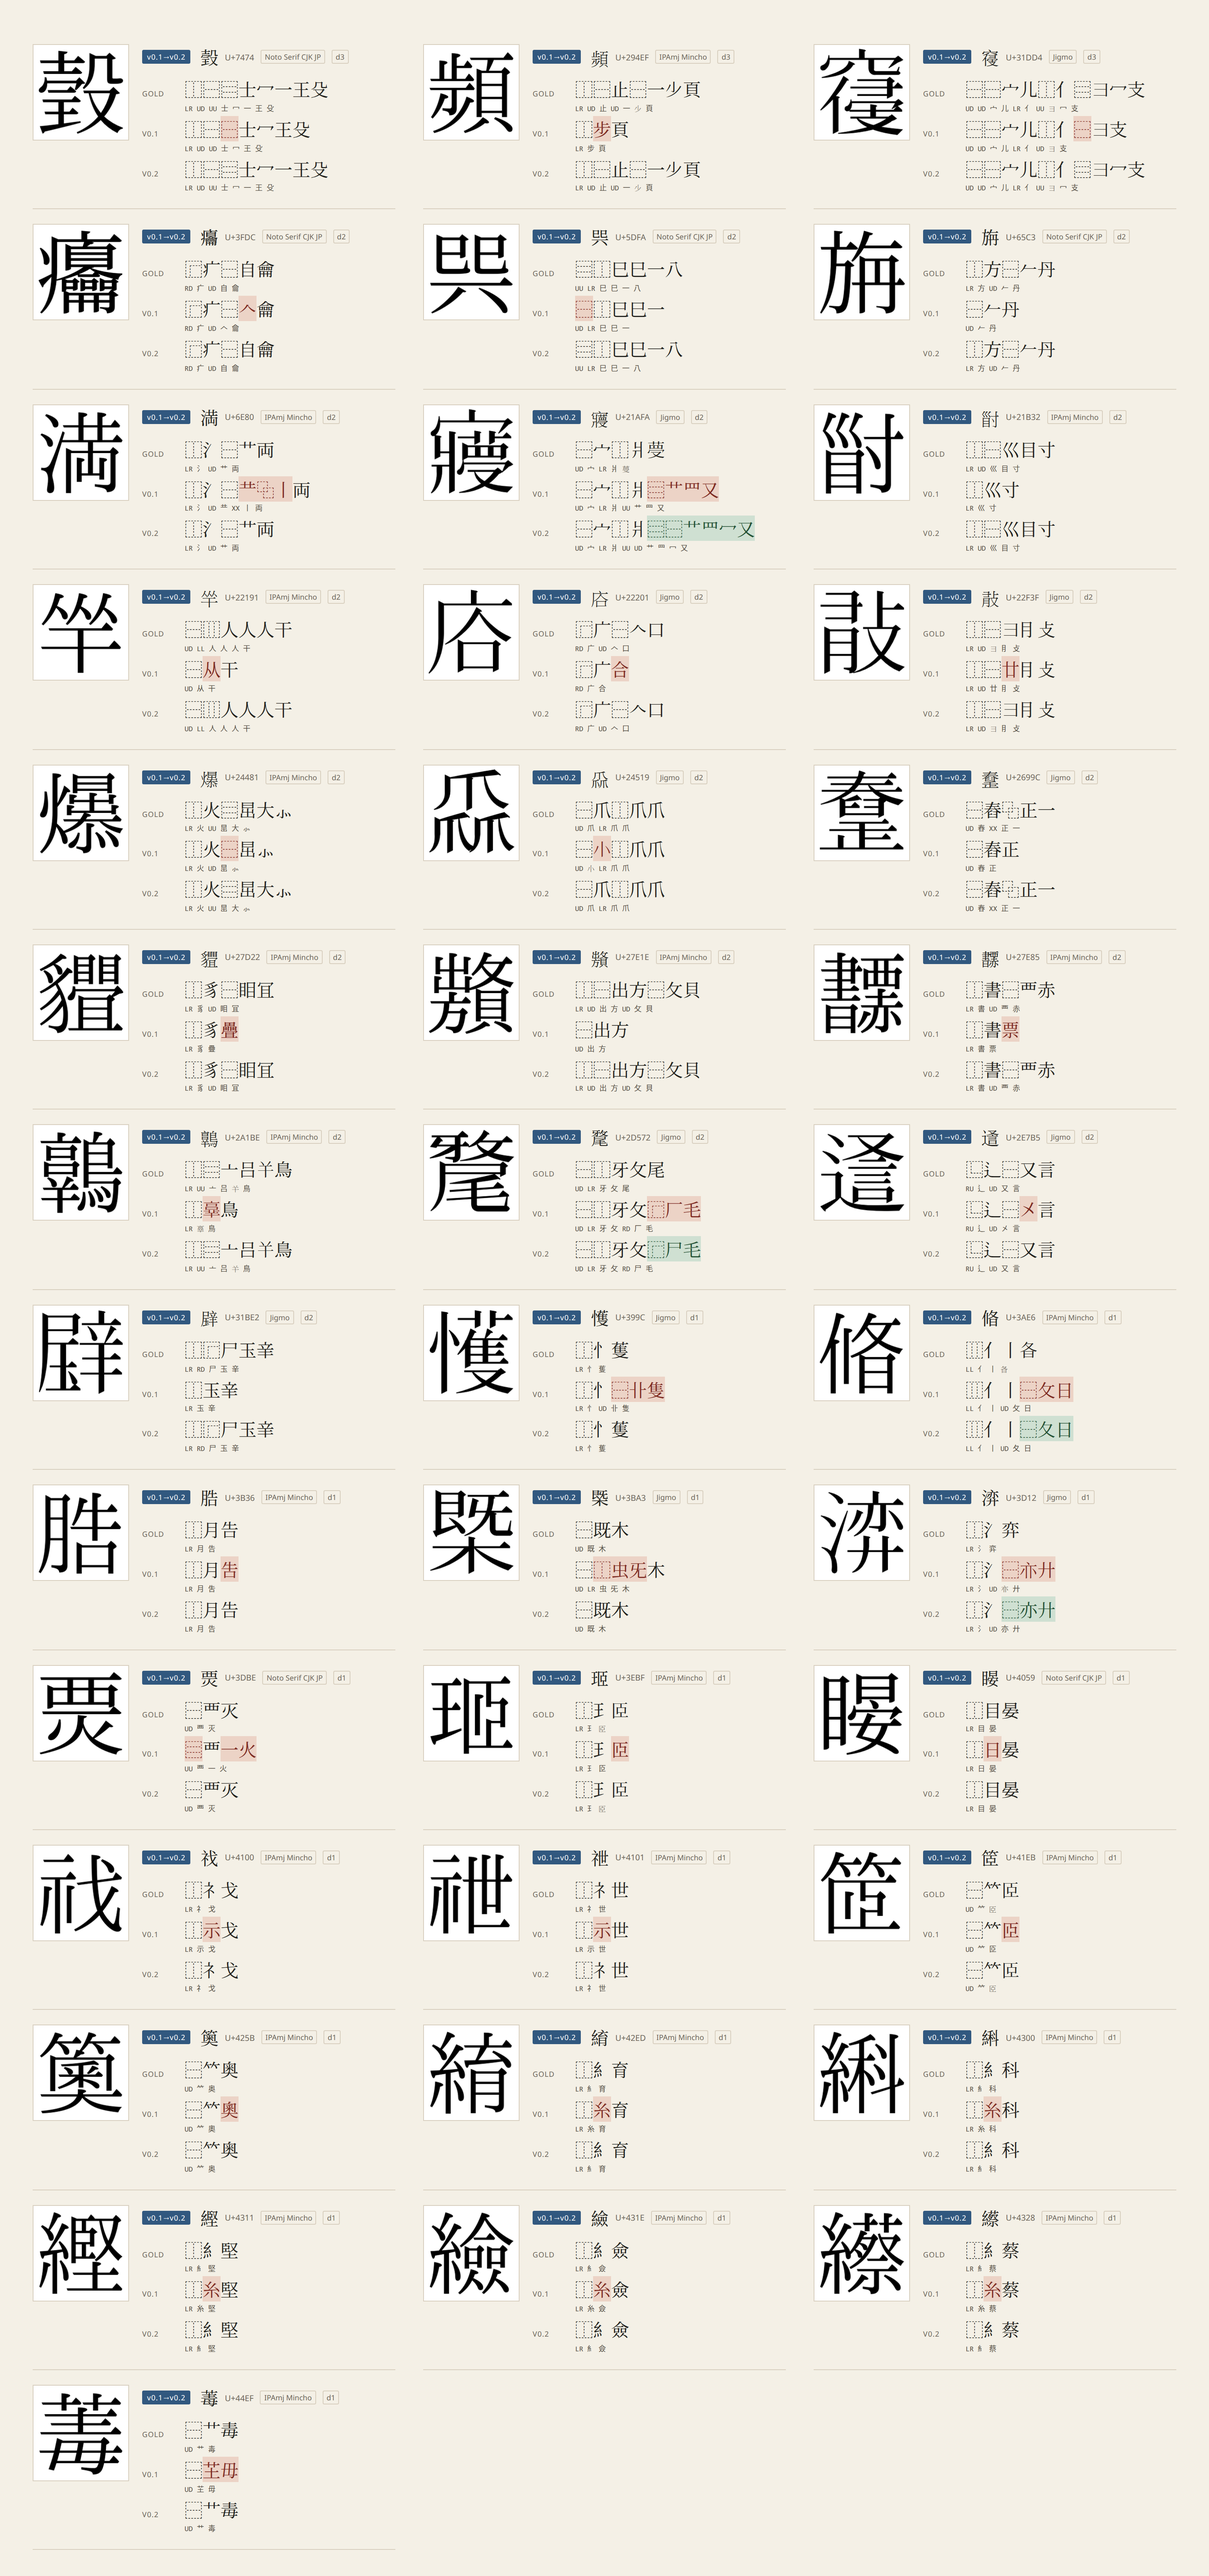
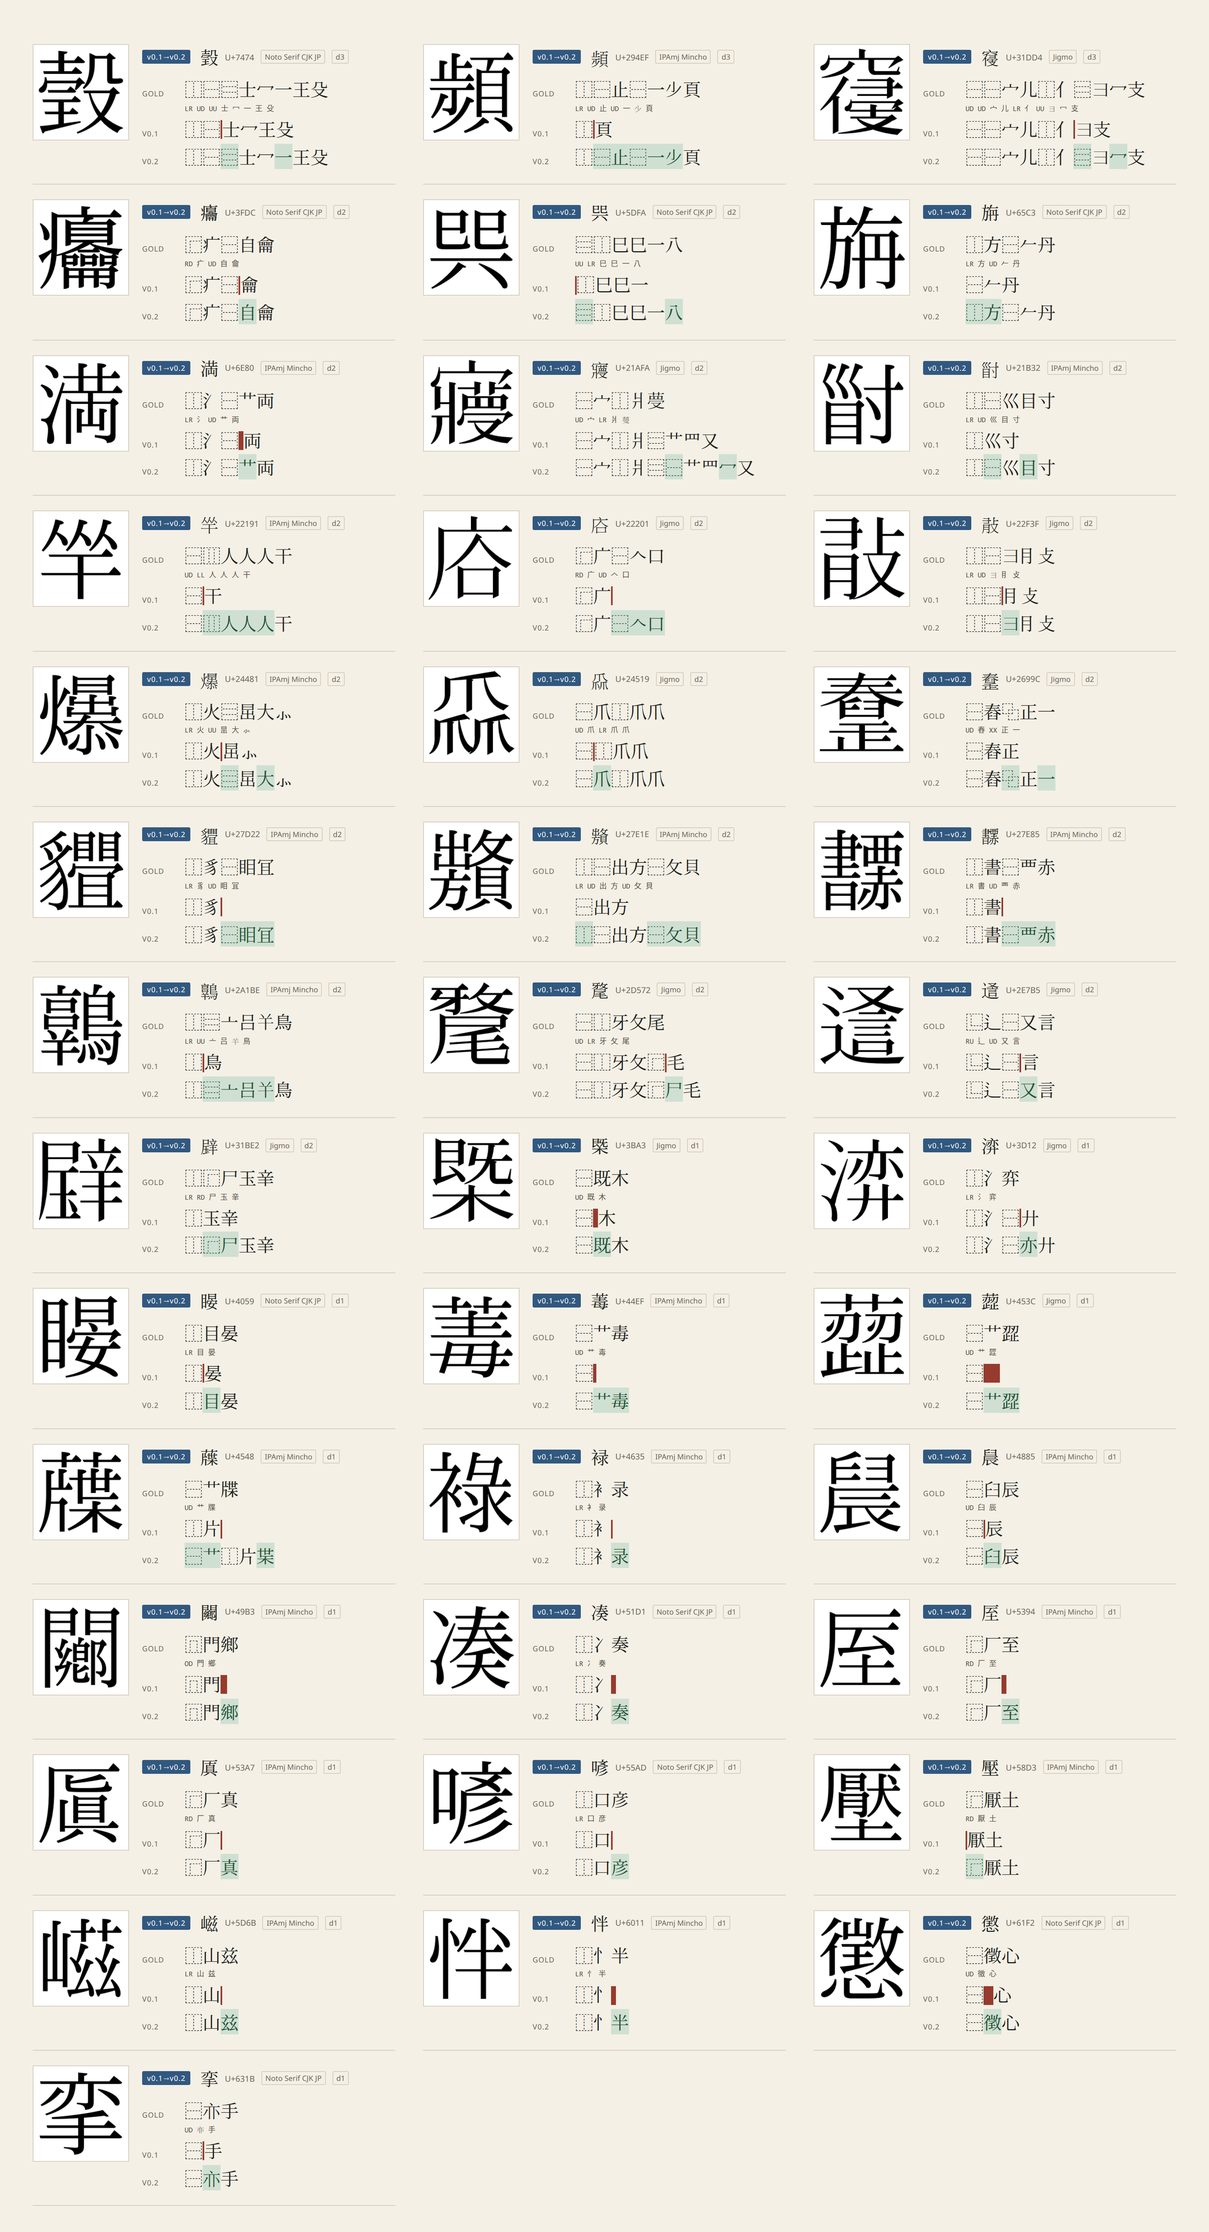
fix: apply the remaining font-variant reviews

diff --git a/docs/font-variants.md b/docs/font-variants.md
@@ -5,6 +5,15 @@ print with different components in Japanese, Taiwanese and mainland fonts, and a
 as a variation sequence rather than a separate character. A single character-level gold label cannot
 be right for every face.
 
+## The preview font
+
+The small character to the left of `U+…` in the galleries is the card's Unicode preview, not the
+image. Its CSS is `font-family: "IDS Noto", "IDS Jigmo", serif`; `IDS Noto` is the bundled
+`fonts/NotoSerifCJKjp-VF-2.003.ttf` (Noto Serif CJK JP variable 2.003), with Jigmo/Jigmo2 as fallback
+when Noto lacks the character. The image on the left is the actual test glyph, from Noto, IPAmj or
+Jigmo. A disagreement between the preview and the model image is therefore often a disagreement
+between Noto JP and the source face.
+
 Reviewed cases (BabelStone region tags and Unicode IVD):
 
 | character | font | difference |
@@ -16,6 +25,13 @@ Reviewed cases (BabelStone region tags and Unicode IVD):
 | U+2569C, U+256A8 | IPAmj / Jigmo | 示, 礻 and 𱍐 are regional forms |
 | U+270E0 | IPAmj / Jigmo | 靑 in IPAmj, 青 in Jigmo |
 | U+2DD65 | Jigmo | BabelStone gives `⿸𦫺用` for T and `⿱艹⿸厂用` for J; Jigmo prints the J form |
+| U+3AE6 | IPAmj | 攵 against the preview's 夂 |
+| U+399C | Jigmo | 蒦 expanded as 卝+隻; the preview uses 蒦 |
+| U+3B36 | IPAmj | 吿 against the preview's 告 |
+| U+3EBF, U+41EB | IPAmj | 𦣝 against the preview's 𦣞 |
+| U+4100, U+4101 | IPAmj | 示 against the preview's 礻 |
+| U+425B | IPAmj | 奧 against the preview's 奥 |
+| U+42ED, U+4300, U+4328, U+431E, U+4311 | IPAmj | 糸 against the preview's 糹 |
 | U+34EC | IPAmj | 龹+刀 against the preview font's 券 |
 | U+34DE | Jigmo | 丯 against the preview font's 丰 |
 | U+3423 | Jigmo | 庫 against 广+車 |
@@ -24,7 +40,7 @@ Reviewed cases (BabelStone region tags and Unicode IVD):
 
 These are not model misses: U+50C3 `⿰亻𤰈` and U+5AD3 `⿱⿱…` are the same trees as the fuller
 spellings, U+306A9 `辱` is `⿸辰寸`, U+3423 `庫` is `⿸广車`, U+3793 `尼+日` is `尸+旨`, and U+37F5
-`罡` is `罒+正`. `src/han2ids/tree.py` normalises equal-axis operator nesting (`⿱⿱ABC` = `⿳ABC`,
+`罡` is `罒+正`; U+3DBE `⿳覀一火` and `⿱覀灭` are the same. `src/han2ids/tree.py` normalises equal-axis operator nesting (`⿱⿱ABC` = `⿳ABC`,
 `⿰⿰ABC` = `⿲ABC`), and `data/equivalence-overrides.tsv` records the reviewed rare cases.
 
 ## Consequence for training
